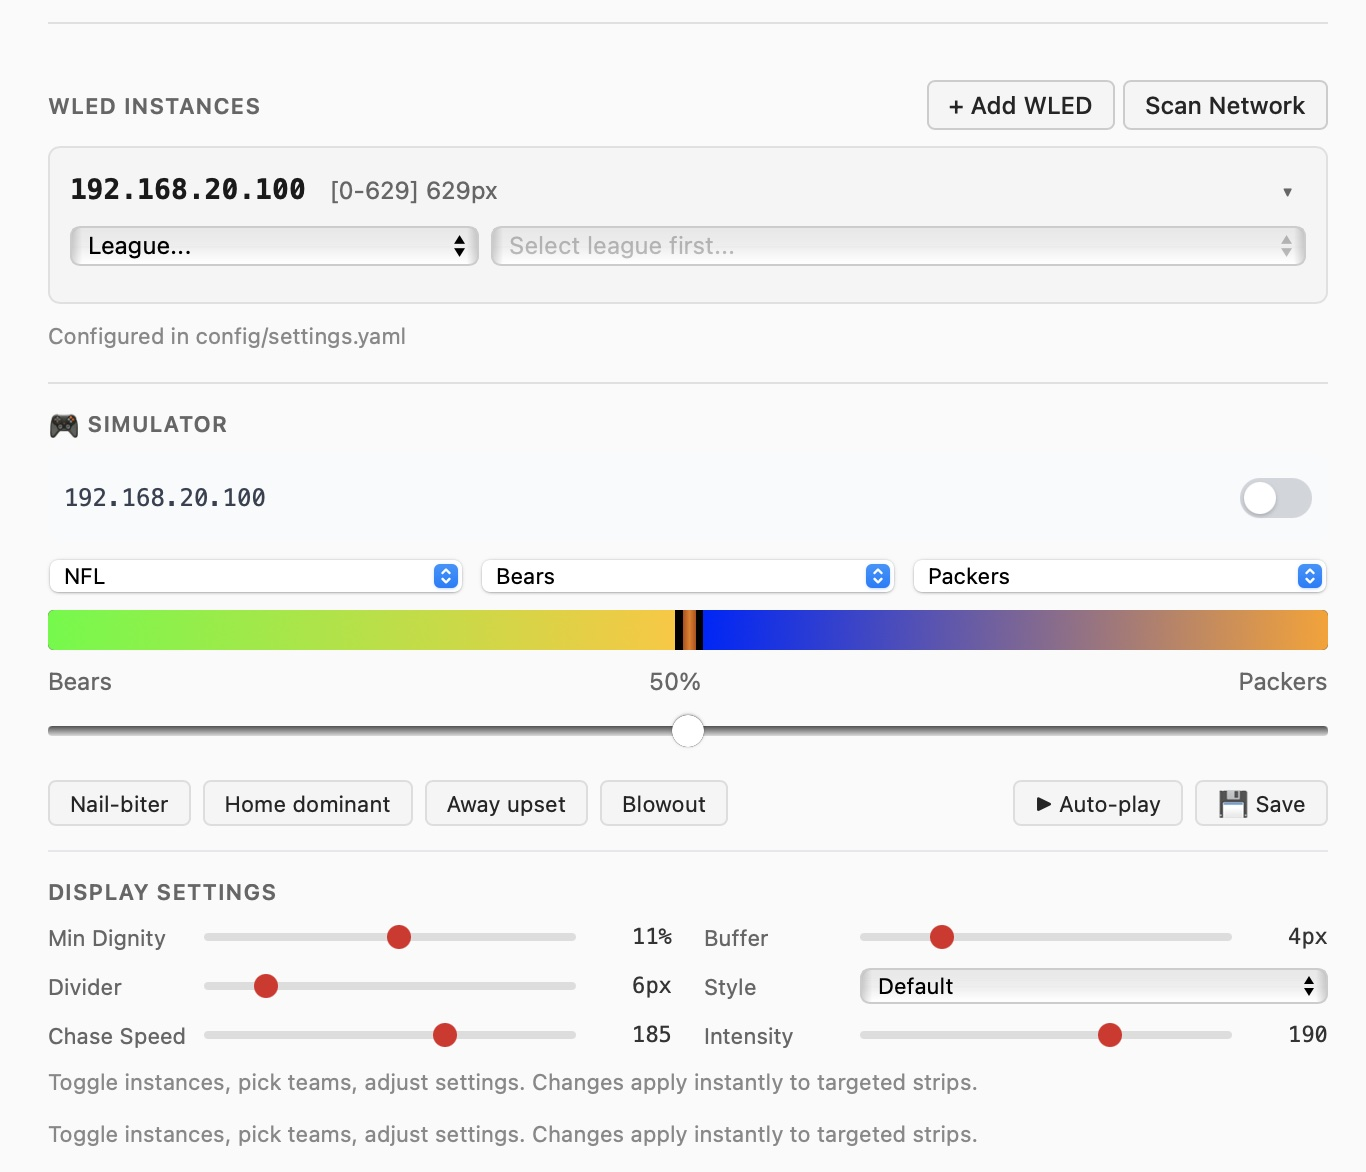
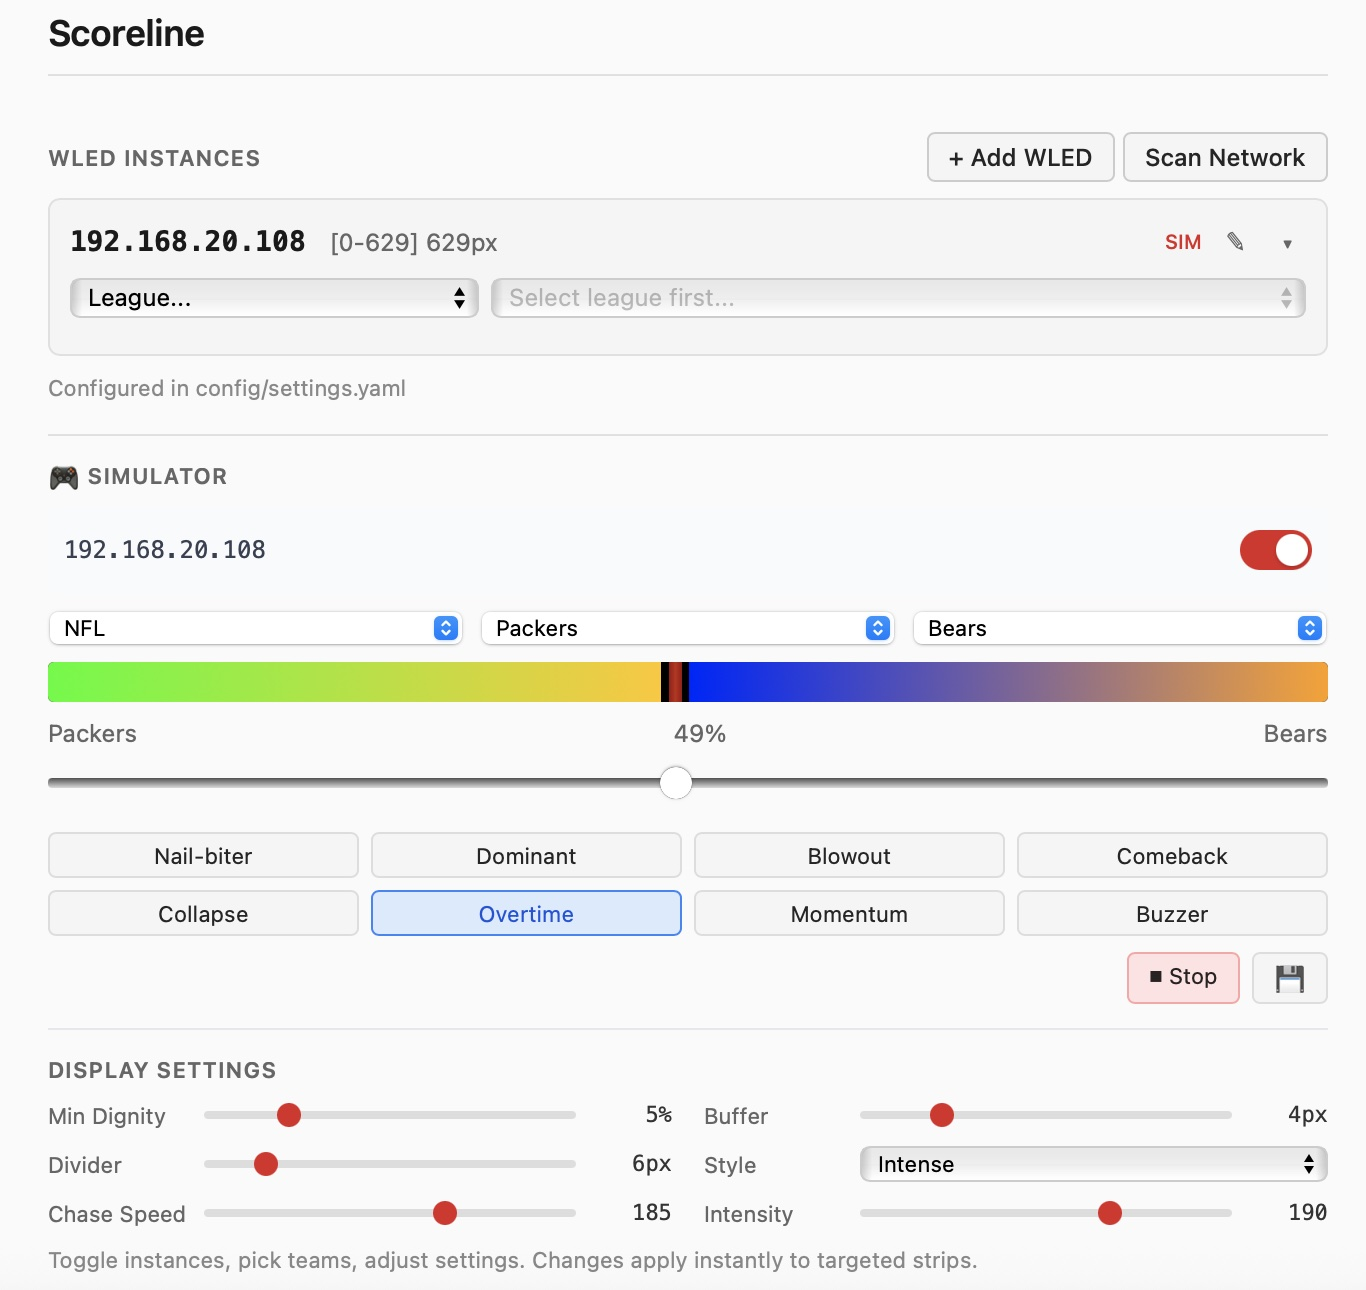
polish: UI cleanup and divider preset rename
- Reorganize scenario buttons into clean 4x2 grid
- Rename divider preset "default" to "classic"
- Fix divider color not changing with preset in simulator
- Update screenshot

diff --git a/static/index.html b/static/index.html
@@ -667,7 +667,7 @@
                    min="0" max="100" value="50">
 
             <!-- Scenario Presets -->
-            <div style="display: flex; gap: 6px; margin: 8px 0; flex-wrap: wrap;">
+            <div style="display: grid; grid-template-columns: repeat(4, 1fr); gap: 6px; margin: 8px 0;">
                 <button onclick="playScenario(50)" class="sim-preset-btn">Nail-biter</button>
                 <button onclick="playScenario(80)" class="sim-preset-btn">Dominant</button>
                 <button onclick="playScenario(95)" class="sim-preset-btn">Blowout</button>
@@ -675,8 +675,10 @@
                 <button onclick="playCollapse()" class="sim-preset-btn anim-btn" data-anim="collapse">Collapse</button>
                 <button onclick="playOvertime()" class="sim-preset-btn anim-btn" data-anim="overtime">Overtime</button>
                 <button onclick="playMomentum()" class="sim-preset-btn anim-btn" data-anim="momentum">Momentum</button>
-                <button onclick="playBuzzerBeater()" class="sim-preset-btn anim-btn" data-anim="buzzer">Buzzer Beater</button>
-                <button onclick="stopSim()" id="stop-btn" class="sim-preset-btn stop-btn" style="margin-left: auto;">⏹ Stop</button>
+                <button onclick="playBuzzerBeater()" class="sim-preset-btn anim-btn" data-anim="buzzer">Buzzer</button>
+            </div>
+            <div style="display: flex; gap: 6px; margin-bottom: 8px; justify-content: flex-end;">
+                <button onclick="stopSim()" id="stop-btn" class="sim-preset-btn stop-btn">⏹ Stop</button>
                 <button onclick="saveSimDefaults()" id="save-sim-btn" class="sim-preset-btn" title="Save current league/teams/pct as default">💾</button>
             </div>
 
@@ -702,7 +704,7 @@
                     <div class="sim-setting-row">
                         <span class="sim-setting-label">Style</span>
                         <select id="sim-divider-preset" onchange="updateSimSettings()" style="flex: 1; padding: 2px 4px; font-size: 11px; border: 1px solid #ccc; border-radius: 4px;">
-                            <option value="default">Default</option>
+                            <option value="classic">Classic</option>
                             <option value="intense">Intense</option>
                             <option value="ice">Ice</option>
                             <option value="pulse">Pulse</option>
@@ -792,13 +794,13 @@
 
                 // Divider gradient based on preset
                 const presetGradients = {
-                    default: 'linear-gradient(90deg, #c85000, #ff8c00, #c85000)',
+                    classic: 'linear-gradient(90deg, #c85000, #ff8c00, #c85000)',
                     intense: 'linear-gradient(90deg, #cc0000, #ff3300, #cc0000)',
                     ice: 'linear-gradient(90deg, #4080ff, #80b0ff, #4080ff)',
                     pulse: 'linear-gradient(90deg, #aaa, #ddd, #aaa)',
                     chaos: 'linear-gradient(90deg, #ff4400, #ff8800, #ff4400)',
                 };
-                const dividerGradient = presetGradients[inst.divider_preset] || presetGradients.default;
+                const dividerGradient = presetGradients[inst.divider_preset] || presetGradients.classic;
 
                 // Status badges
                 const simBadge = inst.simulating
@@ -951,7 +953,7 @@
                                 <select id="divider-preset-${hostId}"
                                         onchange="updateStripPreview('${inst.host}'); autoSaveInstanceSettings('${inst.host}')"
                                         style="flex: 1; padding: 2px 4px; font-size: 11px; border: 1px solid #ccc; border-radius: 4px;">
-                                    <option value="default" ${(inst.divider_preset || 'default') === 'default' ? 'selected' : ''}>Default</option>
+                                    <option value="classic" ${(inst.divider_preset || 'classic') === 'classic' ? 'selected' : ''}>Classic</option>
                                     <option value="intense" ${inst.divider_preset === 'intense' ? 'selected' : ''}>Intense</option>
                                     <option value="ice" ${inst.divider_preset === 'ice' ? 'selected' : ''}>Ice</option>
                                     <option value="pulse" ${inst.divider_preset === 'pulse' ? 'selected' : ''}>Pulse</option>
@@ -1112,7 +1114,7 @@
 
         // Divider preset colors for preview
         const DIVIDER_PRESETS = {
-            default: { color: 'rgb(200, 80, 0)', gradient: 'linear-gradient(90deg, #c85000, #ff8c00, #c85000)' },
+            classic: { color: 'rgb(200, 80, 0)', gradient: 'linear-gradient(90deg, #c85000, #ff8c00, #c85000)' },
             intense: { color: 'rgb(255, 50, 0)', gradient: 'linear-gradient(90deg, #cc0000, #ff3300, #cc0000)' },
             ice: { color: 'rgb(100, 150, 255)', gradient: 'linear-gradient(90deg, #4080ff, #80b0ff, #4080ff)' },
             pulse: { color: 'rgb(200, 200, 200)', gradient: 'linear-gradient(90deg, #aaa, #ddd, #aaa)' },
@@ -1132,7 +1134,7 @@
             const bufferPx = parseInt(bufferSlider.value);
             const dividerPx = parseInt(dividerSlider.value);
             const minPct = parseInt(dignitySlider.value) / 100;
-            const preset = presetSelect?.value || 'default';
+            const preset = presetSelect?.value || 'classic';
             const totalPx = (bufferPx * 2) + dividerPx;
 
             // Update text displays
@@ -1156,7 +1158,7 @@
             const awayPctWidth = (awayPixels / totalPixels * 100).toFixed(1);
 
             // Get divider style from preset
-            const dividerStyle = DIVIDER_PRESETS[preset] || DIVIDER_PRESETS.default;
+            const dividerStyle = DIVIDER_PRESETS[preset] || DIVIDER_PRESETS.classic;
 
             // Update preview
             const preview = document.getElementById(`preview-${hostId}`);
@@ -1531,7 +1533,7 @@
             min_team_pct: 0.05,
             dark_buffer_pixels: 4,
             contested_zone_pixels: 6,
-            divider_preset: 'default',
+            divider_preset: 'classic',
             chase_speed: 185,
             chase_intensity: 190,
         };
@@ -1690,13 +1692,13 @@
                 const awayPctWidth = (awayPixels / totalPixels * 100).toFixed(1);
 
                 const presetGradients = {
-                    default: 'linear-gradient(90deg, #c85000, #ff8c00, #c85000)',
+                    classic: 'linear-gradient(90deg, #c85000, #ff8c00, #c85000)',
                     intense: 'linear-gradient(90deg, #cc0000, #ff3300, #cc0000)',
                     ice: 'linear-gradient(90deg, #4080ff, #80b0ff, #4080ff)',
                     pulse: 'linear-gradient(90deg, #aaa, #ddd, #aaa)',
                     chaos: 'linear-gradient(90deg, #ff4400, #ff8800, #ff4400)',
                 };
-                const dividerGradient = presetGradients[inst.divider_preset] || presetGradients.default;
+                const dividerGradient = presetGradients[inst.divider_preset] || presetGradients.classic;
 
                 const hc = simTeamColors.home;
                 const ac = simTeamColors.away;
@@ -1742,13 +1744,13 @@
             const awayPctWidth = (awayPixels / totalPixels * 100).toFixed(1);
 
             const presetGradients = {
-                default: 'linear-gradient(90deg, #c85000, #ff8c00, #c85000)',
+                classic: 'linear-gradient(90deg, #c85000, #ff8c00, #c85000)',
                 intense: 'linear-gradient(90deg, #cc0000, #ff3300, #cc0000)',
                 ice: 'linear-gradient(90deg, #4080ff, #80b0ff, #4080ff)',
                 pulse: 'linear-gradient(90deg, #aaa, #ddd, #aaa)',
                 chaos: 'linear-gradient(90deg, #ff4400, #ff8800, #ff4400)',
             };
-            const dividerGradient = presetGradients[simSettings.divider_preset] || presetGradients.default;
+            const dividerGradient = presetGradients[simSettings.divider_preset] || presetGradients.classic;
 
             const hc = simTeamColors.home;
             const ac = simTeamColors.away;

diff --git a/app/main.py b/app/main.py
@@ -46,7 +46,7 @@ def build_wled_config(host: str, start: int, end: int) -> WLEDConfig:
         chase_speed=display.get("chase_speed", 185),
         chase_intensity=display.get("chase_intensity", 190),
         divider_color=display.get("divider_color", [200, 80, 0]),
-        divider_preset=display.get("divider_preset", "default"),
+        divider_preset=display.get("divider_preset", "classic"),
     )
 
 
@@ -588,7 +588,7 @@ async def list_instances():
             "dark_buffer_pixels": inst_display.get("dark_buffer_pixels", global_display.get("dark_buffer_pixels", 4)),
             "chase_speed": inst_display.get("chase_speed", global_display.get("chase_speed", 185)),
             "chase_intensity": inst_display.get("chase_intensity", global_display.get("chase_intensity", 190)),
-            "divider_preset": inst_display.get("divider_preset", global_display.get("divider_preset", "default")),
+            "divider_preset": inst_display.get("divider_preset", global_display.get("divider_preset", "classic")),
             # Post-game settings
             "post_game_action": post_game.get("action", "flash_then_off"),
             "post_game_preset_id": post_game.get("preset_id"),
@@ -958,7 +958,9 @@ async def test_percentage(req: TestRequest):
             inst.controller.config.dark_buffer_pixels = req.settings.dark_buffer_pixels or 4
             inst.controller.config.chase_speed = req.settings.chase_speed or 185
             inst.controller.config.chase_intensity = req.settings.chase_intensity or 190
-            inst.controller.config.divider_preset = req.settings.divider_preset or "default"
+            inst.controller.config.divider_preset = req.settings.divider_preset or "classic"
+            # Clear divider_color so preset color is used
+            inst.controller.config.divider_color = None
 
         await inst.controller.set_game_mode(
             home_win_pct=req.pct / 100,

diff --git a/app/wled.py b/app/wled.py
@@ -22,7 +22,7 @@ EFFECT_BLEND = 115     # "Blends" - not great for contested zone (makes mud)
 
 # Divider presets: name -> (color, effect_id, speed, intensity)
 DIVIDER_PRESETS = {
-    "default": ([200, 80, 0], EFFECT_SCANNER, 180, 200),      # Orange scanner
+    "classic": ([200, 80, 0], EFFECT_SCANNER, 180, 200),      # Orange scanner
     "intense": ([255, 50, 0], EFFECT_FIRE, 128, 200),         # Red fire
     "ice": ([100, 150, 255], EFFECT_SCANNER, 180, 200),       # Blue scanner
     "pulse": ([200, 200, 200], EFFECT_BREATHE, 100, 128),     # White breathe
@@ -42,12 +42,12 @@ class WLEDConfig:
     transition_ms: int = 500  # Smooth transitions
     chase_intensity: int = 190  # Controls chase segment size (higher = smaller segments)
     chase_speed: int = 185  # Base chase speed
-    divider_preset: str = "default"  # Preset name from DIVIDER_PRESETS
+    divider_preset: str = "classic"  # Preset name from DIVIDER_PRESETS
     divider_color: list[int] = None  # Override color (optional)
 
     def get_divider_settings(self) -> tuple:
         """Get divider (color, effect, speed, intensity) from preset or override."""
-        preset = DIVIDER_PRESETS.get(self.divider_preset, DIVIDER_PRESETS["default"])
+        preset = DIVIDER_PRESETS.get(self.divider_preset, DIVIDER_PRESETS["classic"])
         color = self.divider_color if self.divider_color else preset[0]
         return (color, preset[1], preset[2], preset[3])
 

diff --git a/app/config.py b/app/config.py
@@ -31,7 +31,7 @@ def load_settings() -> dict:
     display = settings.get("display", {})
     display_settings = {
         "divider_color": display.get("divider_color", [200, 80, 0]),
-        "divider_preset": display.get("divider_preset", "default"),
+        "divider_preset": display.get("divider_preset", "classic"),
         "min_team_pct": display.get("min_team_pct", 0.05),
         "contested_zone_pixels": display.get("contested_zone_pixels", 6),
         "dark_buffer_pixels": display.get("dark_buffer_pixels", 4),

diff --git a/README.md b/README.md
@@ -106,7 +106,7 @@ auto_watch_interval: 300         # Seconds between auto-watch scans
 
 # Global defaults (all optional - sensible defaults built in)
 display:
-  divider_preset: default          # default | intense | ice | pulse | chaos
+  divider_preset: classic          # classic | intense | ice | pulse | chaos
   min_team_pct: 0.05
   contested_zone_pixels: 6
   dark_buffer_pixels: 4
